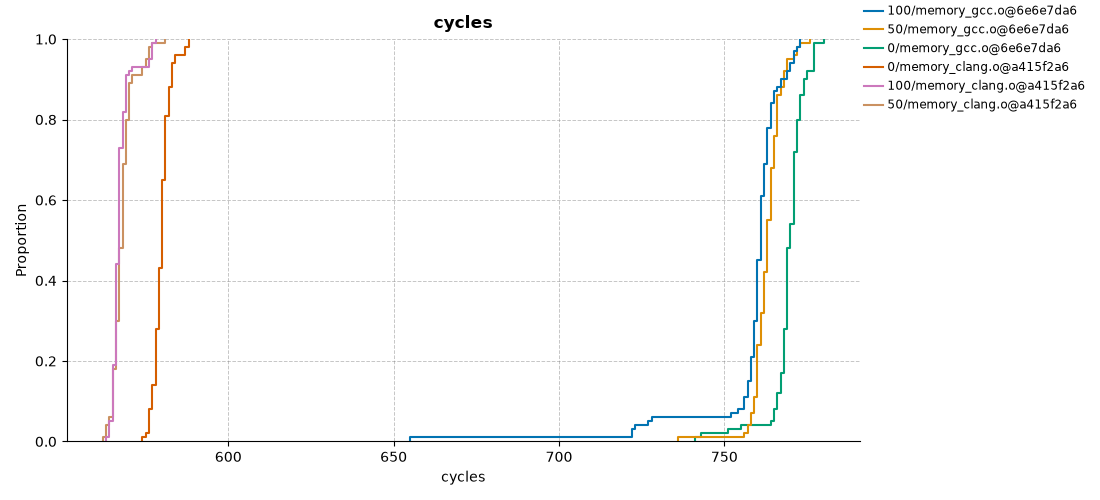
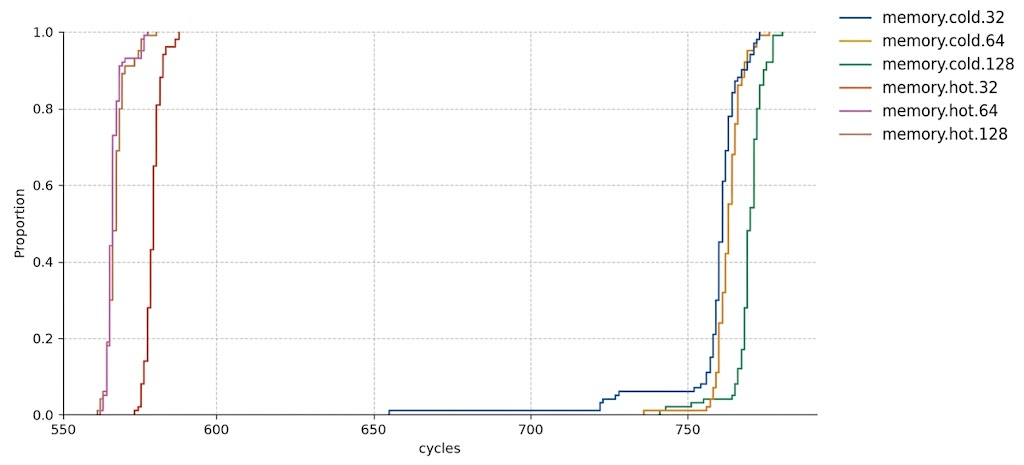
cppcon-2026

diff --git a/cppcon-2026/index.html b/cppcon-2026/index.html
@@ -1679,7 +1679,7 @@ bench() {
         --exec a.out
         --mode latency
         --event cycles,instructions,branch-misses
-        --output branch
+        --output branch_miss
         $@
 }
 ```
@@ -1742,21 +1742,21 @@ bench --config.branch=unpredictable                                   # uniform,
 ----
 
 ```
-perf plot -t bar -e cycles -- branch
+perf plot -t bar -e cycles -- branch_miss
 ```
 <!-- .element: style="text-align:left; font-size: 16px; margin: 0 0;" -->
 
 <p align="left">
-<img src="images/b1.png" style="width: 85%; background:white; border:none; box-shadow:none; margin: 0 0;" />
+<img src="images/b1.jpg" style="width: 85%; background:white; border:none; box-shadow:none; margin: 0 0;" />
 </p>
 
 ```
-perf plot -t ecdf -e cycles -- branch
+perf plot -t ecdf -e cycles -- branch_miss
 ```
 <!-- .element: style="text-align:left; font-size: 16px; margin: 0 0;" -->
 
 <p align="left">
-<img src="images/b2.png" style="width: 85%; background:white; border:none; box-shadow:none; margin: 0 0;" />
+<img src="images/b2.jpg" style="width: 85%; background:white; border:none; box-shadow:none; margin: 0 0;" />
 </p>
 
 ----
@@ -1768,7 +1768,7 @@ perf plot -t ecdf -e cycles -- branch
 auto sum(const std::byte* data, std::size_t n) {
     auto sum = 0;
     for (auto i = 0; i < n; ++i) {
-        sum += data[i];
+        sum += data[i]; // memory access
     }
     return sum;
 }
@@ -1777,7 +1777,7 @@ auto sum(const std::byte* data, std::size_t n) {
 
 ```python
 for mode in ("latency", "throughput"):                                              # python
-    for size in [8, 16, 64, 128, 256, 512, 1024]:
+    for size in [32, 64, 128]:
         for branch in ("predictable", "unpredictable"):
             for hit_rate in [100, 50, 0]:  # hot → warm → cold
                 config = {
@@ -1806,7 +1806,7 @@ for mode in ("latency", "throughput"):                                          
 
 
 ```sh
-perf plot -t ecdf -- backend
+perf plot -t ecdf -- memory_bound
 ```
 <!-- .element: style="text-align:left; font-size: 20px;" -->
 
